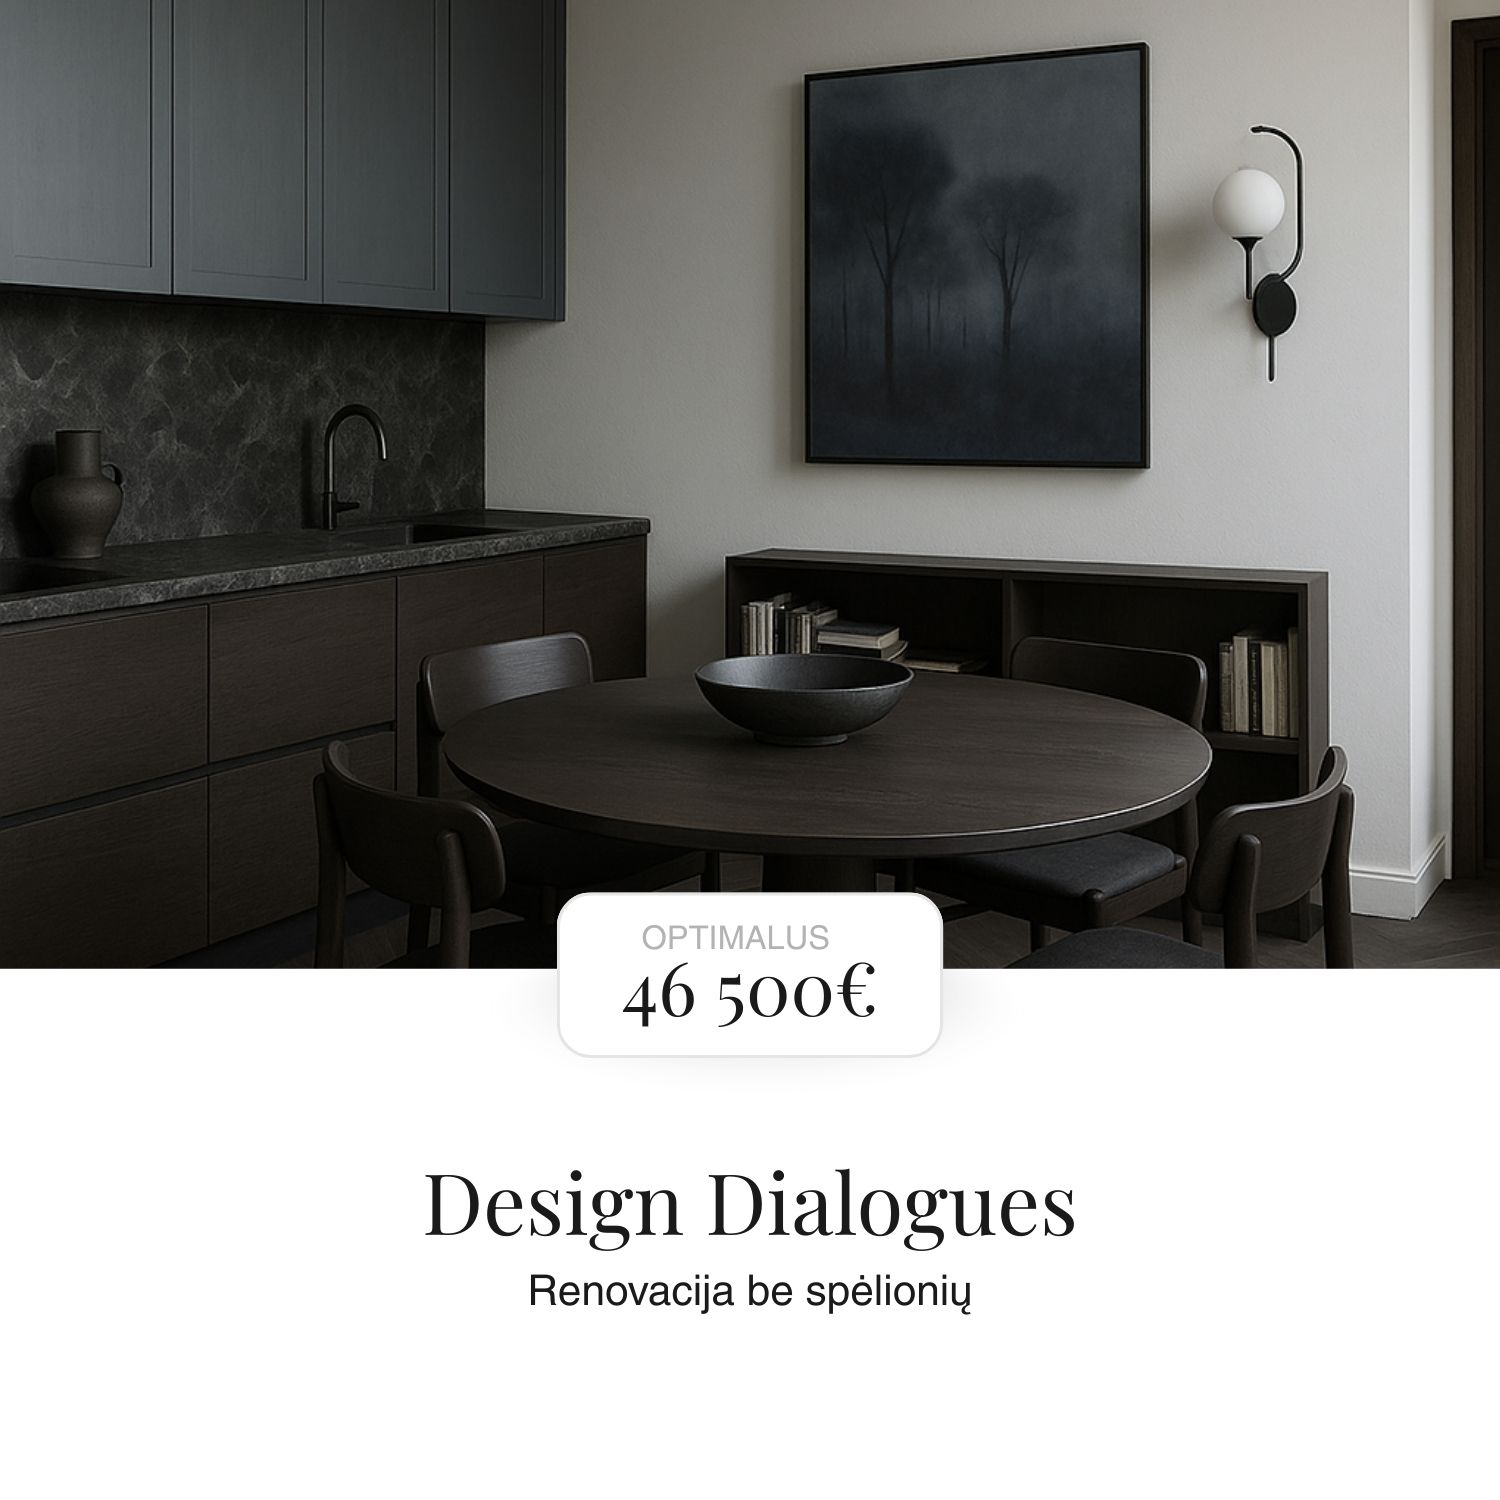
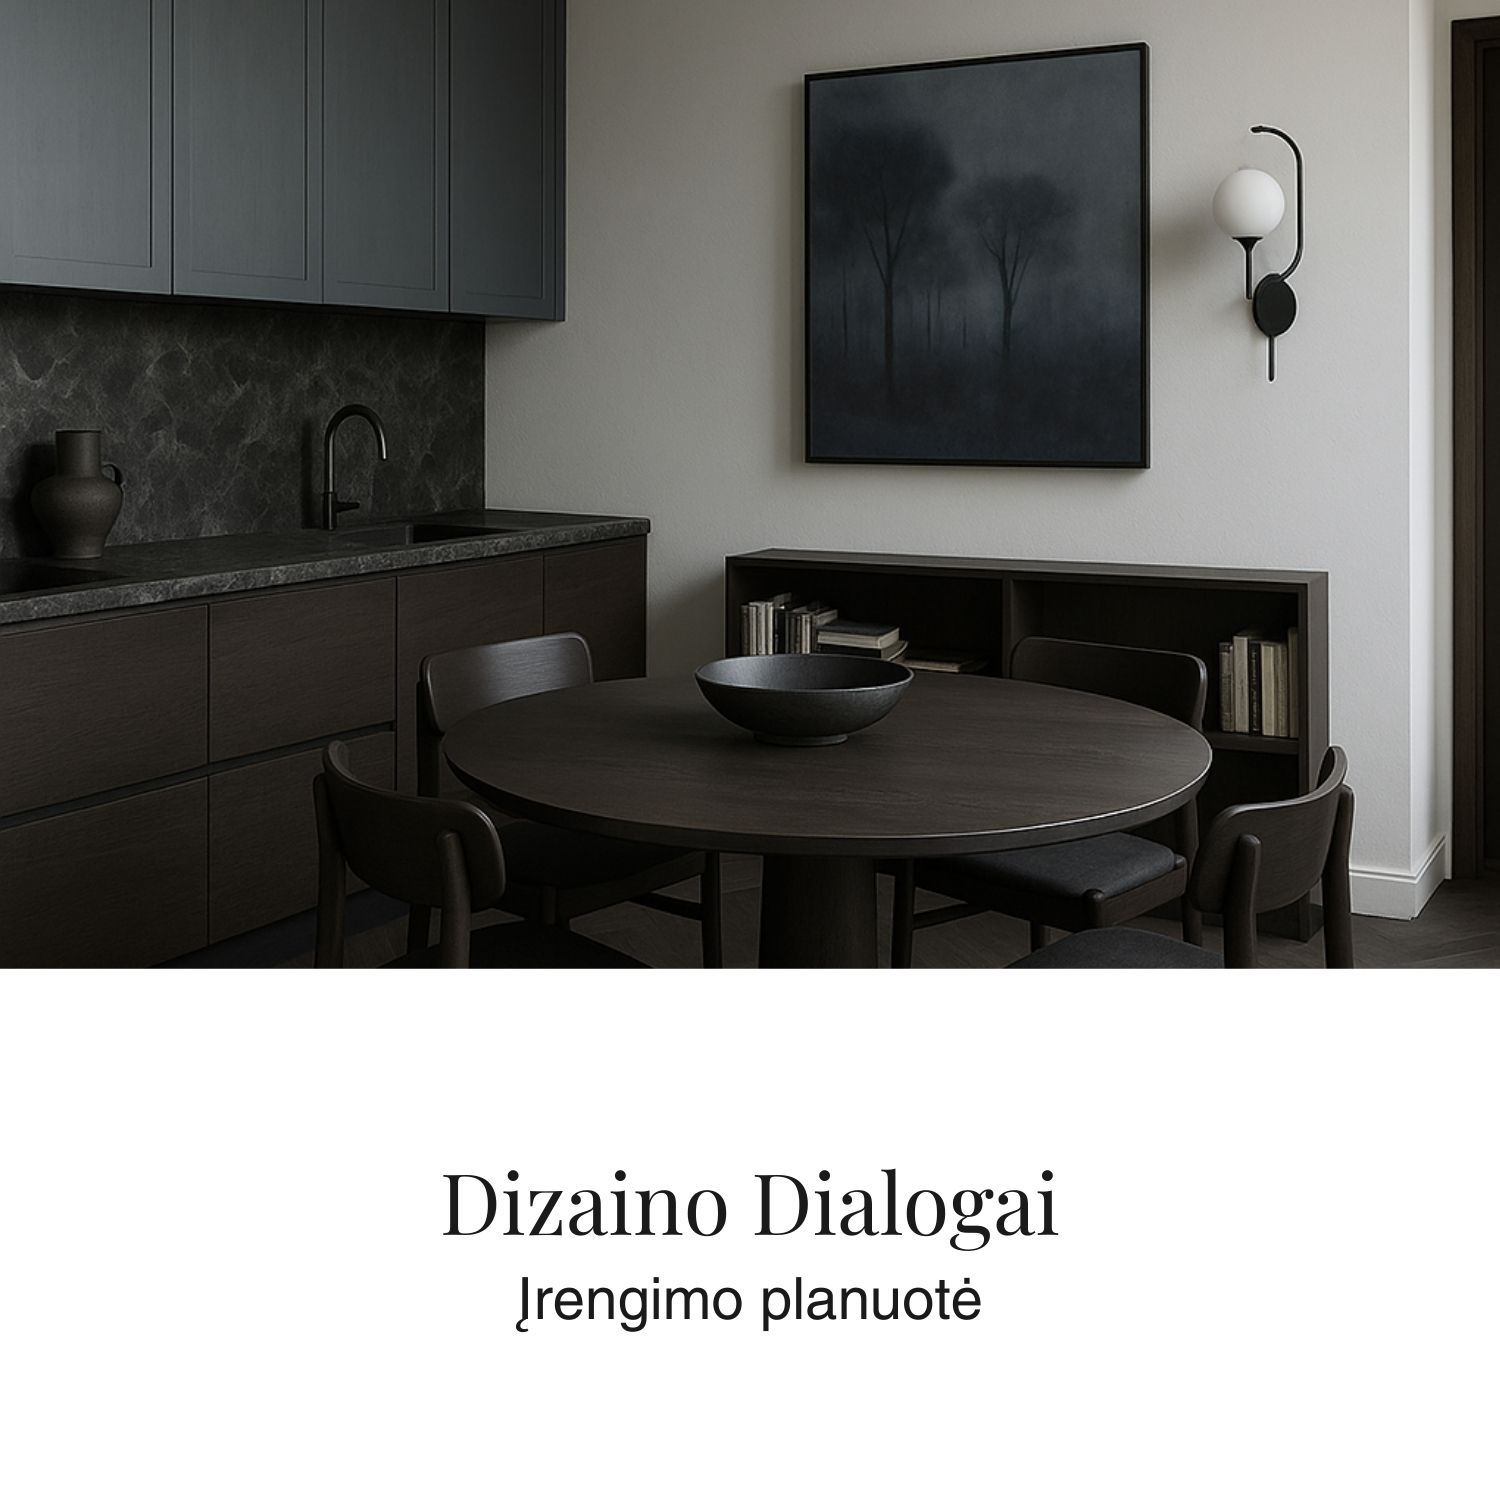
Translations and price improvements

Changed region(s): [[0.276, 0.7667, 0.736, 0.8893], [0.368, 0.5827, 0.644, 0.7053]]

diff --git a/src/components/mobile/views/SpecsView.tsx b/src/components/mobile/views/SpecsView.tsx
@@ -99,9 +99,15 @@ export default function SpecsView() {
 
           {/* Editorial Headline */}
           <div className="mb-6">
-            <h2 className="text-2xl font-serif mb-1">
-              {t(`palette.${palette?.id}`) || palette?.name}
-            </h2>
+            <button
+              onClick={() => setIsPaletteSelectorOpen(true)}
+              className="flex items-center gap-1.5 group"
+            >
+              <h2 className="text-2xl font-serif group-hover:text-foreground/80 transition-colors">
+                {t(`palette.${palette?.id}`) || palette?.name}
+              </h2>
+              <ChevronDown className="w-5 h-5 text-muted-foreground group-hover:text-foreground transition-colors" strokeWidth={1.5} />
+            </button>
             <p className="text-sm text-muted-foreground mt-1">
               {t("result.curatedBy")} {getDesignerWithFallback(palette?.designer, palette?.designerTitle).name}
             </p>
@@ -142,6 +148,14 @@ export default function SpecsView() {
           paletteId={selectedMaterial}
           paletteName={palette?.id ? t(`palette.${palette.id}`) : ""}
           selectedTier={selectedTier}
+        />
+
+        {/* Palette Selector Sheet */}
+        <PaletteSelectorSheet
+          isOpen={isPaletteSelectorOpen}
+          onClose={() => setIsPaletteSelectorOpen(false)}
+          selectedPaletteId={selectedMaterial}
+          onSelectPalette={handleSelectMaterial}
         />
       </div>
     );

diff --git a/index.html b/index.html
@@ -3,16 +3,16 @@
   <head>
     <meta charset="UTF-8" />
     <meta name="viewport" content="width=device-width, initial-scale=1.0" />
-    <title>Design Dialogues | Įrengimo planuotė</title>
+    <title>Dizaino Dialogai | Įrengimo planuotė</title>
     <meta name="description" content="Nuo AI koncepto iki detalaus biudžeto ir vykdymo plano. Skaitmeninis įrankis šiuolaikiniam būstui." />
-    <meta name="author" content="Design Dialogues" />
+    <meta name="author" content="Dizaino Dialogai" />
     <link rel="icon" type="image/x-icon" href="/favicon.ico" />
     
     <link rel="preconnect" href="https://fonts.googleapis.com">
     <link rel="preconnect" href="https://fonts.gstatic.com" crossorigin>
     <link href="https://fonts.googleapis.com/css2?family=Playfair+Display:ital,wght@0,400;0,500;0,600;0,700;1,400&display=swap" rel="stylesheet">
 
-    <meta property="og:title" content="Design Dialogues | Įrengimo planuotė" />
+    <meta property="og:title" content="Dizaino Dialogai | Įrengimo planuotė" />
     <meta property="og:description" content="Nuo AI koncepto iki detalaus biudžeto ir vykdymo plano. Skaitmeninis įrankis šiuolaikiniam būstui." />
     <meta property="og:type" content="website" />
     <meta property="og:image" content="https://www.dizainodialogai.lt/og_image.jpg" />

diff --git a/src/components/Footer.tsx b/src/components/Footer.tsx
@@ -10,7 +10,7 @@ const Footer = () => {
             to="/" 
             className="font-serif text-lg font-medium text-foreground"
           >
-            Design Dialogues
+            Dizaino Dialogai
           </Link>
           
           {/* Social Placeholders */}
@@ -37,7 +37,7 @@ const Footer = () => {
           
           {/* Copyright */}
           <p className="text-xs text-muted-foreground">
-            © {new Date().getFullYear()} Design Dialogues. All rights reserved.
+            © {new Date().getFullYear()} Dizaino Dialogai. All rights reserved.
           </p>
         </div>
       </div>

diff --git a/src/components/Header.tsx b/src/components/Header.tsx
@@ -150,7 +150,7 @@ const Header = () => {
               to="/"
               className="flex-1 text-center text-xl font-serif font-medium tracking-tight text-foreground truncate px-2"
             >
-              Design Dialogues
+              Dizaino Dialogai
             </Link>
 
             {designContext && (
@@ -192,7 +192,7 @@ const Header = () => {
                 to="/" 
                 className="text-2xl font-serif font-medium tracking-tight text-foreground"
               >
-                Design Dialogues
+                Dizaino Dialogai
               </Link>
             </div>
             

diff --git a/src/config/pricing.ts b/src/config/pricing.ts
@@ -8,9 +8,9 @@ import type { Tier } from "./tiers";
  * Base rates per m² by tier
  */
 export const baseRates: Record<Tier, number> = {
-  Budget: 300,
-  Standard: 500,
-  Premium: 800,
+  Budget: 290,
+  Standard: 490,
+  Premium: 780,
 };
 
 /**
@@ -64,9 +64,9 @@ export const furnitureRates: Record<Tier, number> = {
 };
 
 /**
- * Price range variance (±15%)
+ * Price range variance (±10%)
  */
-export const priceVariance = 0.15;
+export const priceVariance = 0.10;
 
 /**
  * Urgency multiplier (20% premium for rush projects)

diff --git a/src/hooks/useCostCalculation.ts b/src/hooks/useCostCalculation.ts
@@ -124,7 +124,7 @@ export function useCostCalculation({
     // Construction & Finish: 60/40 split between services
     // Rough Labor (60%) = wiring, plumbing, structural → Space Planning
     // Finish Labor (40%) = painting, tiling, trim → Interior Finishes
-    const totalConstructionBase = area * baseRates[tier];
+    const totalConstructionBase = area * baseRates[tier] * areaAdjustment;
     const roughLabor = services.spacePlanning
       ? roundToHundred(totalConstructionBase * 0.2)
       : 0;

diff --git a/src/components/result-dashboard/MaterialManifestSection.tsx b/src/components/result-dashboard/MaterialManifestSection.tsx
@@ -89,7 +89,7 @@ const MaterialManifestSection = ({
           </div>
           <div className="flex-1 text-left">
             <p className="text-xs font-medium text-foreground">
-              {palette?.designer || "Design Dialogues"}
+              {palette?.designer || "Dizaino Dialogai"}
             </p>
             <p className="text-[10px] text-muted-foreground">
               {palette?.designerTitle || "Interior Designer"}

diff --git a/supabase/functions/create-checkout/index.ts b/supabase/functions/create-checkout/index.ts
@@ -57,8 +57,8 @@ serve(async (req) => {
           price_data: {
             currency: "eur",
             product_data: {
-              name: "Design Dialogues Credits",
-              description: "20 image generation credits",
+              name: "Dizaino Dialogai Kreditai",
+              description: "20 koncepto generavimo kreditų",
             },
             unit_amount: 200, // 2.00 EUR in cents
           },

diff --git a/supabase/functions/send-email/index.ts b/supabase/functions/send-email/index.ts
@@ -107,7 +107,7 @@ serve(async (req) => {
     console.log(`Sending ${type} email to: ${toEmail}`);
 
     const { error } = await resend.emails.send({
-      from: "Design Dialogues <onboarding@resend.dev>", // Update to your verified domain
+      from: "Dizaino Dialogai <labas@dizainodialogai.lt>", // Update to your verified domain
       to: [toEmail],
       subject,
       html,

diff --git a/src/components/ProcessingOverlay.tsx b/src/components/ProcessingOverlay.tsx
@@ -113,7 +113,7 @@ const ProcessingOverlay = ({ isVisible, onComplete, isGenerating }: ProcessingOv
                 value={[kitchenLength]}
                 onValueChange={(value) => setKitchenLength(value[0])}
                 min={2}
-                max={8}
+                max={12}
                 step={0.5}
                 className="w-full"
               />

diff --git a/src/components/mobile/views/BudgetView.tsx b/src/components/mobile/views/BudgetView.tsx
@@ -476,7 +476,7 @@ export default function BudgetView() {
                 numberOfAdults={localNumberOfAdults}
                 numberOfChildren={localNumberOfChildren}
                 min={2}
-                max={8}
+                max={12}
                 step={0.2}
               />
               {kitchenStatus === 'underbuilt' && (

diff --git a/src/components/result-dashboard/CostBreakdownPanel.tsx b/src/components/result-dashboard/CostBreakdownPanel.tsx
@@ -158,7 +158,7 @@ const CostBreakdownPanel = ({
               numberOfAdults={localNumberOfAdults}
               numberOfChildren={localNumberOfChildren}
               min={2}
-              max={8}
+              max={12}
               step={0.2}
               recommendedLabel={t("budget.recommended")}
             />
